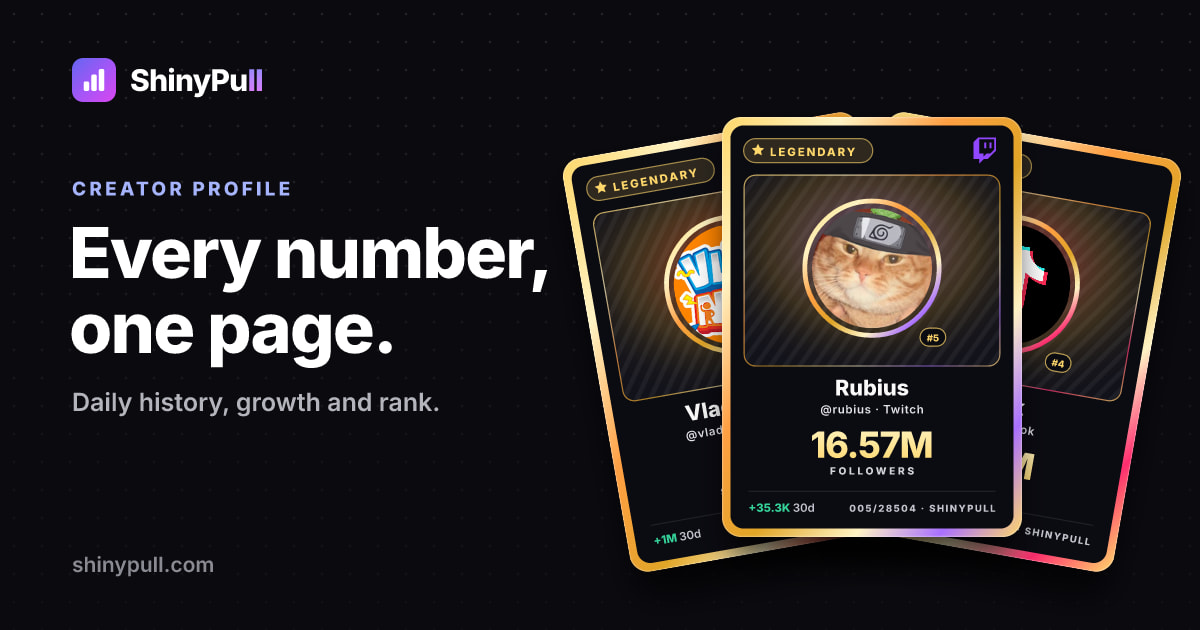
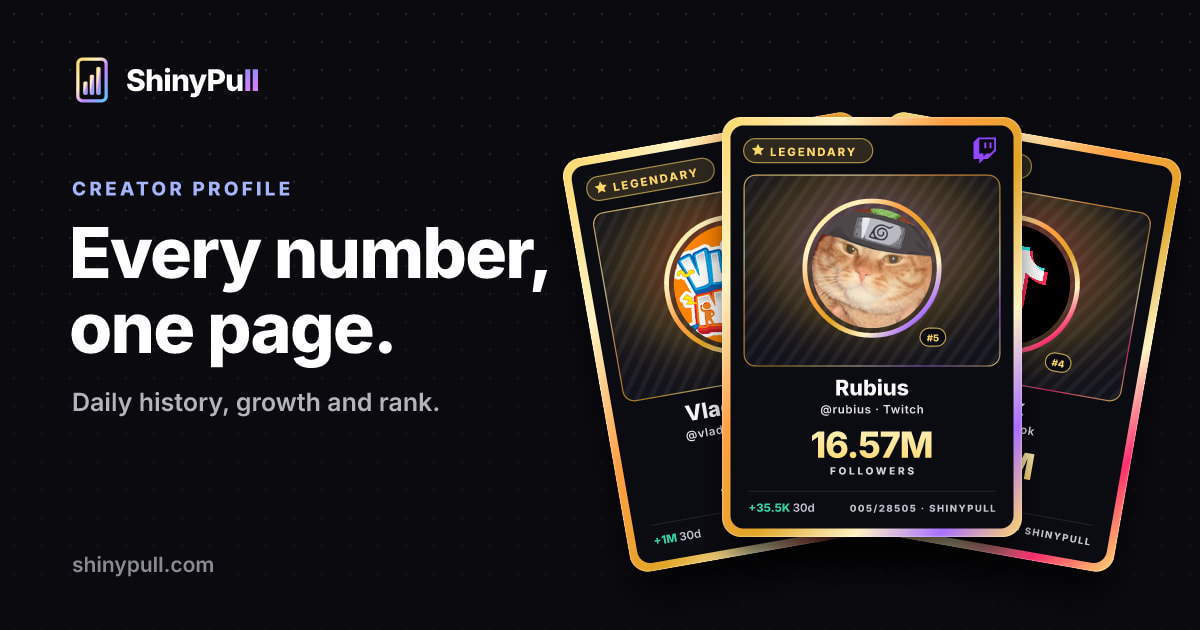
New mark: rising bars inside a foil-edged card
Replaces the purple gradient tile everywhere the mark appears on its
own: favicon, apple-touch-icon, logo.png (structured-data logo), and
the lockup in link previews. The header/footer wordmark with the
animated purple bars is unchanged. One definition in
src/lib/brandMark.js; scripts/brandAssets.mjs regenerates every file.
Preview cache version bumped so shared links pick up the new mark.

Changed region(s): [[0.0617, 0.0905, 0.2158, 0.181], [0.7092, 0.7841, 0.7708, 0.8143]]

diff --git a/api/_shareCard.js b/api/_shareCard.js
@@ -17,6 +17,7 @@ import { Resvg } from '@resvg/resvg-js';
 import sharp from 'sharp';
 import { fileURLToPath } from 'url';
 import { renderCard, cardTier, CARD_PLATFORMS, compactCount, escapeXml as esc } from '../src/lib/badgeCard.js';
+import { markSvgInner } from '../src/lib/brandMark.js';
 
 export const SHARE_W = 1200;
 export const SHARE_H = 630;
@@ -79,15 +80,11 @@ function background(w = W, h = H) {
 <rect width="${w}" height="${h}" fill="url(#dots)" mask="url(#dotmask)"/>`;
 }
 
-// The ShinyPull mark (from its real geometry) plus the wordmark.
+// The ShinyPull mark (src/lib/brandMark.js) plus the wordmark.
 function lockup(x, y) {
-  const s = 44, u = s / 64;
-  const bars = [14, 24, 32].map((h, i) => {
-    const bx = x + (64 - 3 * 8 - 2 * 3) / 2 * u + i * (8 + 3) * u;
-    return `<rect x="${bx.toFixed(1)}" y="${(y + s - 16 * u - h * u).toFixed(1)}" width="${(8 * u).toFixed(1)}" height="${(h * u).toFixed(1)}" rx="${(2.5 * u).toFixed(1)}" fill="#fff"/>`;
-  }).join('');
-  return `<rect x="${x}" y="${y}" width="${s}" height="${s}" rx="${16 * u}" fill="url(#brand)"/>${bars}
-<text x="${x + s + 14}" y="${y + s / 2 + 11}" font-family="${BODY}" font-size="30" font-weight="700" letter-spacing="-0.8" fill="#fff">ShinyPu<tspan fill="url(#brandtext)">ll</tspan></text>`;
+  const s = 48;
+  return `<g transform="translate(${x - 4} ${y - 2}) scale(${s / 100})">${markSvgInner('lockup')}</g>
+<text x="${x + s + 6}" y="${y + s / 2 + 9}" font-family="${BODY}" font-size="30" font-weight="700" letter-spacing="-0.8" fill="#fff">ShinyPu<tspan fill="url(#brandtext)">ll</tspan></text>`;
 }
 
 // Place a card (250x350 native) centered at cx,cy with the given height and

diff --git a/src/lib/brandMark.js b/src/lib/brandMark.js
@@ -1,0 +1,11 @@
+// The ShinyPull mark: three rising bars inside a foil-edged card, drawn in a
+// 100x100 box. Pure string, no imports, so the share-image renderer, the
+// brand-asset script and anything else can share one definition.
+// `id` keeps gradient ids unique when the mark appears twice in a document.
+export function markSvgInner(id = 'spm') {
+  return `<defs><linearGradient id="${id}f" x1="0" y1="0" x2="1" y2="1"><stop offset="0" stop-color="#FFD76A"/><stop offset=".35" stop-color="#FFF3C4"/><stop offset=".6" stop-color="#C084FC"/><stop offset="1" stop-color="#5EC8FF"/></linearGradient></defs>
+<rect x="20.5" y="6.5" width="59" height="87" rx="10" fill="#0a0a0f" stroke="url(#${id}f)" stroke-width="7"/>
+<rect x="32" y="53" width="9" height="28" rx="3" fill="url(#${id}f)"/>
+<rect x="45.5" y="39" width="9" height="42" rx="3" fill="url(#${id}f)"/>
+<rect x="59" y="23" width="9" height="58" rx="3" fill="url(#${id}f)"/>`;
+}

diff --git a/middleware.js b/middleware.js
@@ -932,7 +932,7 @@ const OG_CARDS = [
   [/^\/badge$/,                    'badge'],
 ];
 
-const SHARE_CARD_V = 1;
+const SHARE_CARD_V = 2;
 
 function ogCardFor(pathname) {
   for (const [re, name] of OG_CARDS) {
